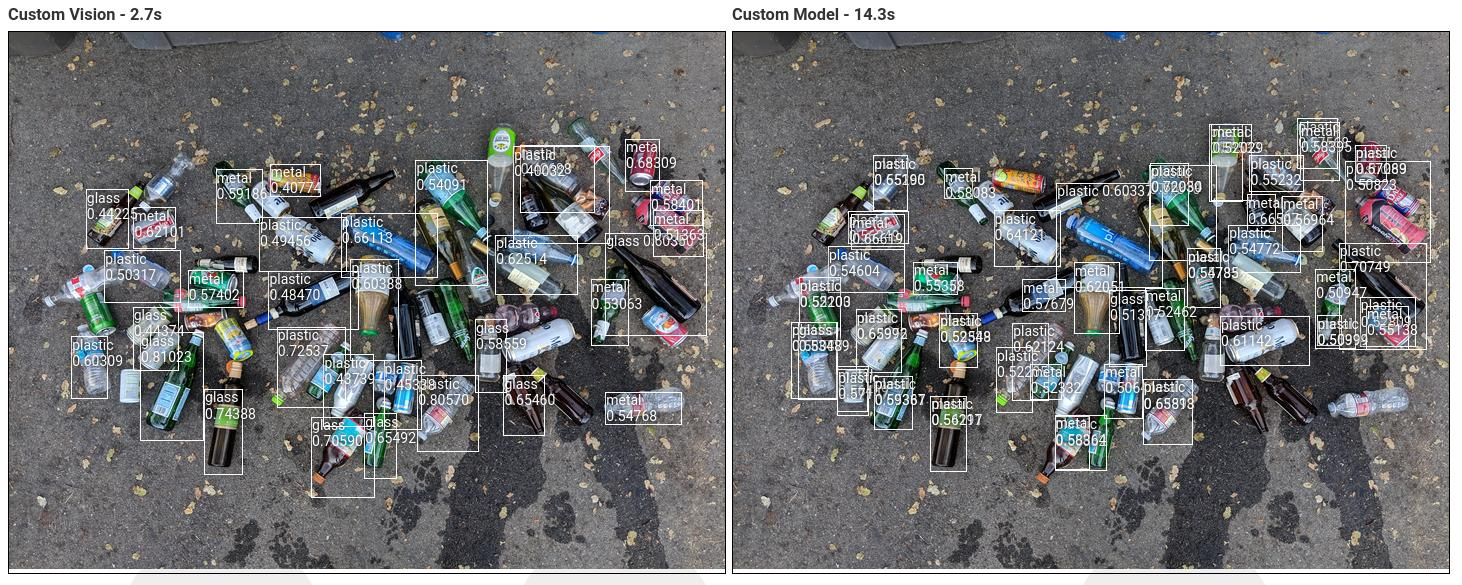
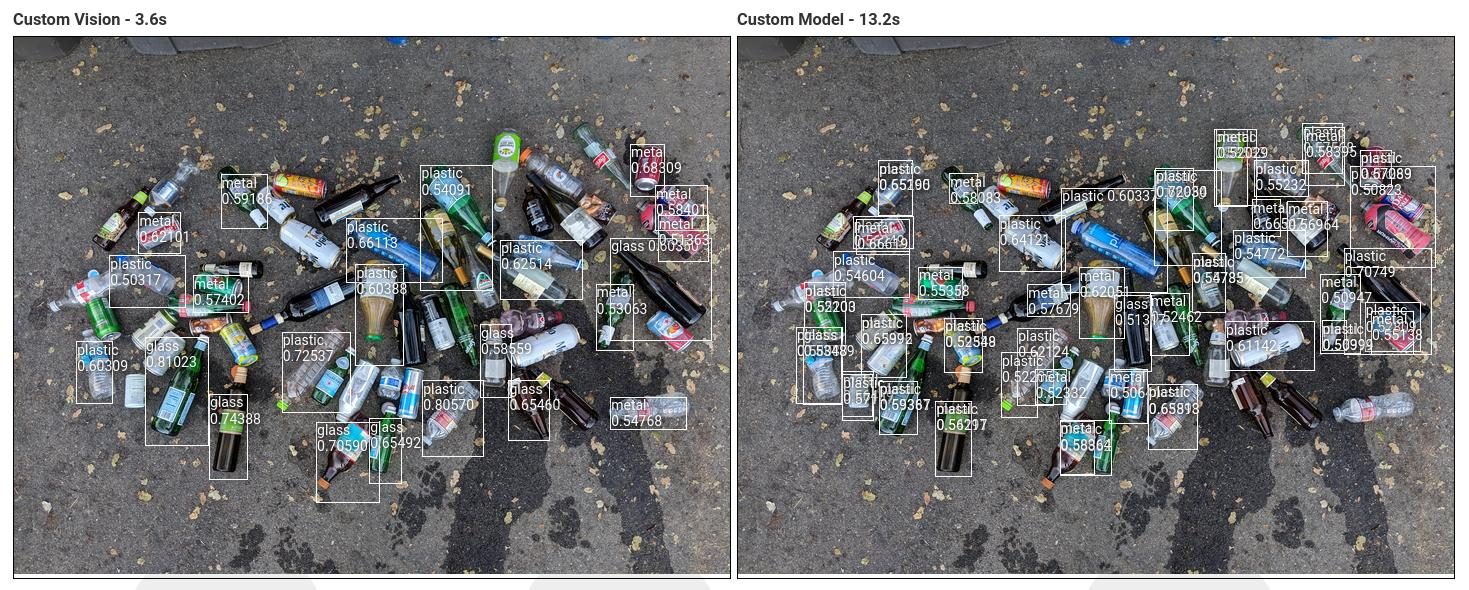
Fixes for readme, test and app

diff --git a/waste-app/src/app/app.component.ts b/waste-app/src/app/app.component.ts
@@ -43,7 +43,7 @@ export class AppComponent {
       const startTime = Date.now();
       this.predictService.sendFile(this.file).then(result => {
         this.predictionTime = ((Date.now() - startTime) / 1000).toFixed(1);
-        this.predictions = result.predictions.filter(p => p.probability > 0.4);
+        this.predictions = result.predictions.filter(p => p.probability > 0.5);
         --this.requestWaiting;
         console.log(this.predictions);
       }).catch(err => {

diff --git a/README.md b/README.md
@@ -130,7 +130,7 @@ Po zakończeniu trenowania opublikowaliśmy projekt i stał on się dostępny pr
 
 **Aplikacja pozwalająca na porównanie rozwiązań**
 
-W Angularze stworzyliśmy kolejny projekt, którego kod dostępny jest w katalogu `waste-app`. Aplkacja pozwala na wybranie zdjęcia z komputera i wysłanie go zarówno do Prediction API jak i naszego API z serwerem. Jako próg wyświetlania ustawiliśmy prawdopodobieństwo 0.4 dla Custom Vision i 0.5 dla naszego API.
+W Angularze stworzyliśmy kolejny projekt, którego kod dostępny jest w katalogu `waste-app`. Aplkacja pozwala na wybranie zdjęcia z komputera i wysłanie go zarówno do Prediction API jak i naszego API z serwerem. Jako próg wyświetlania ustawiliśmy prawdopodobieństwo 0.5 dla Custom Vision i dla naszego API.
 
 W Azure Portal stworzyliśmy kolejne Web App tym razem takie, które uruchamia kod PHP. Za pomocą połączenia FTP wgraliśmy zbudowany projekt Angularowy i jest on dostępny pod adresem:
 
@@ -141,19 +141,25 @@ https://waste-app.azurewebsites.net/
 Azure Custom Vision przedstawia trzy wskaźniki oceny klasyfikatorów.
 
 * **Precision** - określa ile identyfikacji klasy było prawidłowych. W naszym przypadku może to być np. 100 wykryć plastiku, a tylko 65 z nich faktycznie było było poprawnych, wtedy precision wynosi 65%.
+
+  P = TRUE_POSITIVE / (TRUE_POSITIVE + FALSE_POSITIVE)
 * **Recall** - określa ile było faktycznych klasyfikacji które dodatkowo były poprawnie sklasyfikowane. W naszym przypadku może to być np. 100 zdjęć, które zostały przez nas określone jako plastik, a wykrytych jako plastik było tylko 40, wtedy recall wynosi 40%.
-* **Average precision** - jest to obszar pod krzywą precision/recall, czyli krzywej, precision do recall dla każdej z predykcji.
+
+  R = TRUE_POSITIVE / (TRUE_POSITIVE + FALSE_NEGATIVE)
+* **Average precision** - jest to pole pod krzywą w wykresie precision od recall dla każdej wartości progu wykrywania obiektu (od 0 do 1).
+
+Wiecej informacji o metrykach można znaleźć w [artykule Uniwersytetu Stanford](https://cs230.stanford.edu/section/7/), gdzie jest to bardzo przystępnie opisane.
 
 ImageAI pozwala poznać tylko jedną z tych wartości i jest to Average precision, więc względem tej wartości głównie będzie to porównane.
 
 
 | Tag | Precision | Recall | Average precision Azure | Average precision ImageAI |
 | - | - | - | - | - |
-| glass | 76.5% | 40.6% | 48.0% | 8.5% |
-| plastic | 73.6% | 39.8% | 45.2% | 23.8% |
-| metal | 52.1% | 45.5% | 42.2% | 30.1% |
+| glass | 76.5% | 40.6% | 48.0% | 42.6% |
+| plastic | 73.6% | 39.8% | 45.2% | 33.9% |
+| metal | 52.1% | 45.5% | 42.2% | 41.2% |
 
-Niestety, ale od razu widać, że wartości uzyskane w Azure prezentują się znacznie lepiej od tych uzyskanych przez nasz model. Wynikać to może między innymi z tego, że obliczenia na Azure, mimo że znacznie krótsze zostały wykonane na zoptymalizowanej pod kątem tego typu obliczeń maszynie i była to maszyna znacznie szybsza.
+Niestety, ale od razu widać, że wartości uzyskane w Azure prezentują się tylko trochę lepiej od tych uzyskanych przez nasz model. Wynikać to może między innymi z tego, że obliczenia na Azure, mimo że znacznie krótsze zostały wykonane na zoptymalizowanej pod kątem tego typu obliczeń maszynie i była to maszyna znacznie szybsza.
 
 Pod kątem samych surowych danych można uznać, że Custom Vision jest tutaj lepszy. Chcieliśmy zrobić porównania faktycznych zdjęć, aby zobaczyć jak działają porównania.
 
@@ -173,7 +179,7 @@ III. Duża liczba obiektów różnego typu
 
 ![Test 3](images/test3.jpg)
 
-Widać tutaj podobne błedy, nie wykrywanie wszystkich obiektów, błedne tagi przy niektórych z nich. Bardzo ciężko w tym wypadku porównać który z algorytmów zadziałął lepiej jeśli chodzi o wykrywanie. Widać jednak różnicę w szybkości działania.
+Widać tutaj podobne błedy, nie wykrywanie wszystkich obiektów (szczególnie mało zostało wykrytych przez Custom Vision), błedne tagi przy niektórych z nich. Bardzo ciężko w tym wypadku porównać który z algorytmów zadziałął lepiej jeśli chodzi o wykrywanie - oba wypadły dość słabo. Widać jednak różnicę w szybkości działania.
 
 Różnice w szybkości w większości prób mogą wiązać się z ilością dostępnej mocy obliczeniowej na maszynie Dockera, mimo wszystko jest to dość tania maszyna - koszt to tylko 12 dolarów miesięcznie. W przypadku korzystania z Azure koszt zależy głównie od ilości wykrywanych zdjęć. Custom Vision pozwala na wykrywanie do 10 000 zdjęć miesięcznie za darmo a potem, każdy 1000 kosztuje 2 dolary. Jeśli liczba wykrywanych obiektów ograniczyłaby się do 16 000 zdjęć, to Custom Vision wyszedłby taniej, powyżej tej liczby wirtualna maszyna byłaby lepsza, jednak silniejsze rozwiązania kosztują już ~70 dolarów, co wymagałoby 45 000 predykcji miesięcznie, aby cena Custom Vision była większa.
 
@@ -181,7 +187,7 @@ Istnieje takze duża szansa, że gdyby model był dodatkowo douczony, szczególn
 
 ### Dalszy rozwój
 
-Aby ulepszyć działanie obecnej aplikacji najłatwiejszym sposobem byłoby dłuższe trenowanie modelu. Jednakże aby dobrze dobrać odpowiednie wagi dobrze byłoby także sprawić, aby ilość oznaczonych obiektów poszczególnych tagów/etykiet była podobna, czyli potrzebne byłoby dodatkowo ok. 200 oznaczeć szkla i 100 oznaczeń metalu.
+Aby ulepszyć działanie obecnej aplikacji najłatwiejszym sposobem byłoby dłuższe trenowanie modelu. Jednakże, aby model był trenowany poprawnie dobrze byłoby także sprawić, aby ilość oznaczonych obiektów poszczególnych tagów/etykiet była podobna, czyli potrzebne byłoby dodatkowo ok. 200 oznaczeć szkla i 100 oznaczeń metalu.
 
 Innym sposobem na rozbudowę byłoby dodanie kolejnych możliwych sortowań czyli papieru, biodegradowalnych rzeczy i rzeczy, które nie nadają się do recyklingu. Mając dobrej jakości zdjęcia możnaby nawet czytać odpowiednie oznaczenia na śmieciach, co pozwalałoby na dokładniejszą analizę, np. oznaczenia na workach biodegradowalnych.
 
